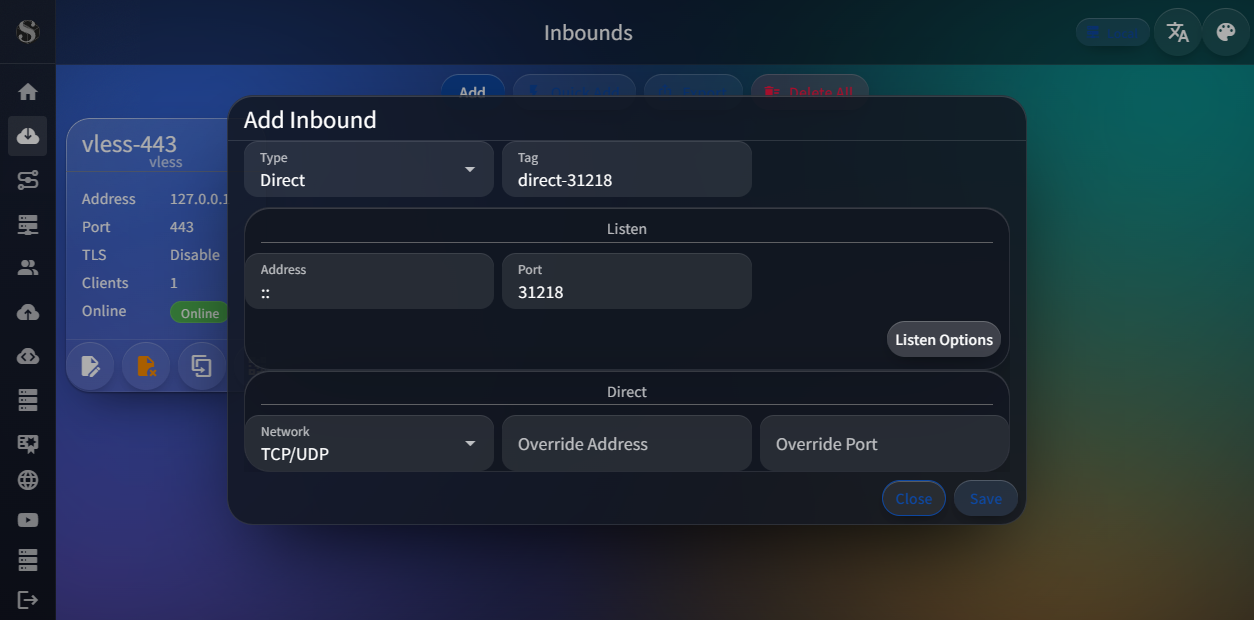
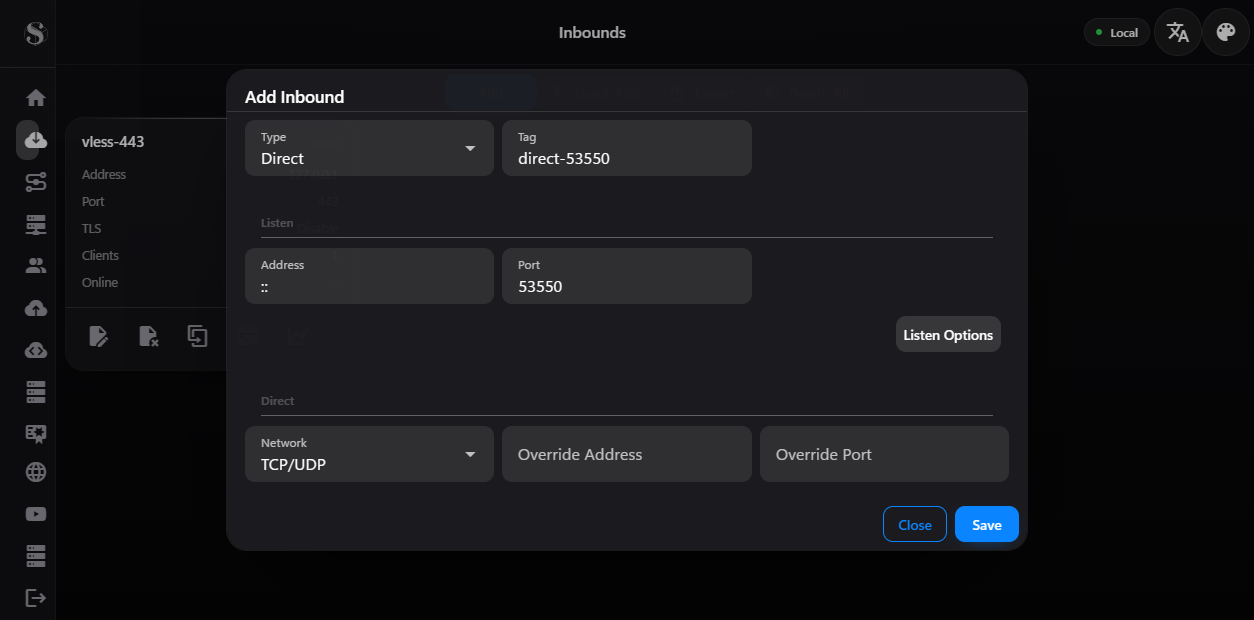
前端：按 Apple HIG 重做材质与排版（中性色/单一强调色/键值行/分段控件）

diff --git a/README.md b/README.md
@@ -119,14 +119,25 @@ token 在面板「服务器」页新增节点时生成，只显示一次。
 | 节点内核起不来 | `transport:{type:"tcp"}` 是 UI 概念，sing-box 不认 | 存盘前归一化成 `{}` |
 | 内核报 `default outbound not found: direct` | 新建节点没有默认出站 | 建节点时种 `direct`，agent 侧再加一道兜底 |
 
-## 外观：Liquid Glass 皮肤
+## 外观：按 Apple HIG 重做的 Liquid Glass
 
-面板自带 7 套皮肤（右下角调色板切换），默认是 **Liquid Glass**：
+默认皮肤是 `liquid`。这一版不是"多加模糊"，而是把噪音减掉：
 
-- 折射底：深墨底上一层缓慢漂移的靛/青瓷/琥珀光斑（`styles/liquid-glass.css`）
-- 材质四层：半透明染色 + `backdrop-filter` 模糊增饱和 + 渐变发丝边框 + 内顶高光 + 远近双层阴影
-- 按钮改胶囊、输入框做内凹、弹窗用更实的玻璃保证可读性
-- 只降级动效，不按系统"减少透明度"关材质（Windows 关掉透明效果时 Chrome 会上报 reduce，一刀切会变成实心板）
+| 维度 | 做法 |
+| --- | --- |
+| 颜色 | 近黑中性底（#0B0B0D）+ **单一**强调色（系统蓝 #0A84FF）；不再整屏铺四色渐变大底 |
+| 材质 | 玻璃只出现在浮层（顶栏 / 卡片 / 弹窗 / 菜单）；卡片 = 半透明表面 + 1px 描边 + 顶沿镜面高光 + 极弱阴影 |
+| 字体 | 苹果字体栈（SF / Segoe UI Variable / PingFang SC）+ 明确三级层级；表格数字等宽 |
+| 排版 | 卡片字段改成 Apple 设置页式键值行（标签左、值右、26px 行高）；弹窗里的"卡片套卡片"拍平为分组标题 |
+| 控件 | 主操作实心蓝、次操作纯文字、破坏性操作弱红；标签页改成分段控件；输入框聚焦出 2px 蓝色外环 |
+| 动效 | 200ms `cubic-bezier(0.2,0,0,1)`，不做弹跳 |
 
-想换回旧皮肤：调色板里选其它任意一套；想把默认改回去，改 `src/plugins/skins.ts` 的 `DEFAULT_SKIN`。
-预览图见 `docs/preview/`。
+踩过的两个坑：
+
+1. Vuetify 的 `flat` 变体会把背景压成 `surface` 色，主按钮会变黑 —— 主操作改用 `elevated`。
+2. `prefers-reduced-transparency` 不能用来关材质：Windows 关闭"透明效果"时 Chrome 会上报 reduce，
+   一刀切会让整套玻璃变实心板。
+
+预览图：`docs/preview/`（home / inbounds / clients / dialog / settings）。
+
+仍可继续的布局级改造（需要动模板，风险和工时都更大）：侧栏加分组标题与文字标签、内容区限宽居中、图标体系换成线性单色。
